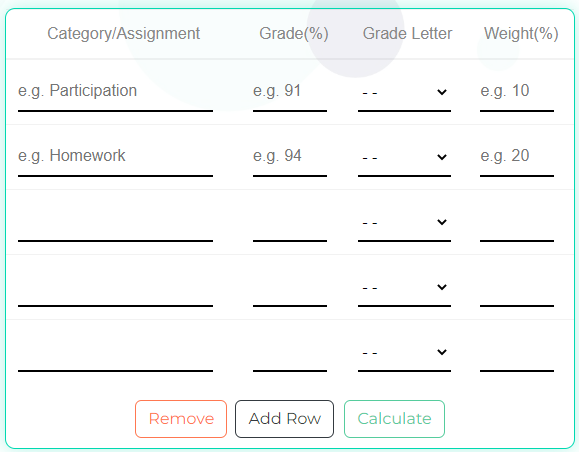
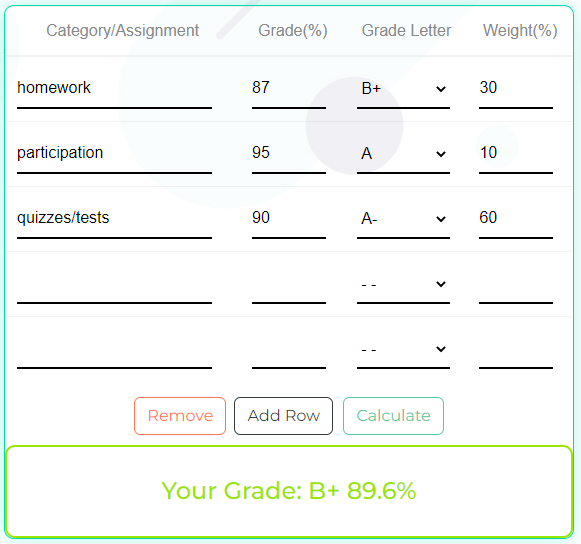
Update

diff --git a/frontend/src/components/GradeCalc.vue b/frontend/src/components/GradeCalc.vue
@@ -10,7 +10,7 @@
           <table class="table no" style="width:100%">
           <thead>
               <tr >
-                <th scope="col" class="white">Category/Assignment</th>
+                <th scope="col" width="37%" class="white">Category/Assignment</th>
                 <th scope="col">Grade(%)</th>
                 <th class="white" scope="col" >Grade Letter</th>
                 <th scope="col" >
@@ -192,10 +192,7 @@ export default {
       this.windowWidth = window.innerWidth
       const box = document.getElementById('contain')
       if (this.windowWidth <= 800) {
-        box.style.width = '100%'
-        box.style.width = '0%'
-      } else {
-        this.mobile = false
+      } else if(this.windowWidth > 800) {
       }
     },
     // fills the grade textbox after you select the corresponding letter
@@ -266,7 +263,7 @@ export default {
       } else {
         this.incorrect = false
         this.correct = true
-        this.FinalGrade = this.FinalGrade.toFixed(2)
+        this.FinalGrade = Math.round(100*this.FinalGrade)/100
       }
       if (this.FinalGrade >= 97) {
         this.FinalGradeLetter = 'A+'
@@ -335,7 +332,9 @@ export default {
   text-align: left;
 }
 img{
-  text-align: left;
+  text-align: center;
+  max-width: 100%;
+  max-height: 100%;
 }
 body{
   background-image: url("..\\assets\\5291450.jpg");
@@ -353,28 +352,6 @@ section {
     flex-direction: column;
     justify-content: center;
     color: #fff;
-    h4 {
-      text-transform: uppercase;
-      font-size: 22px;
-      padding-bottom: 4px;
-    }
-    h2 {
-      font-size: 50px;
-      @media (min-width: 550px) {
-        font-size: 80px;
-      }
-    }
-    hr:nth-child(2) {
-      max-width: 365px;
-      margin-bottom: 16px;
-    }
-    hr:nth-child(4) {
-      height: 6px;
-      background-color: #fff;
-      border: none;
-      max-width: 85px;
-      margin-top: 16px;
-    }
   }
 }
 .Heading{
@@ -387,14 +364,14 @@ section {
 .contain{
   text-align:center;
   background-color: rgba(255,255,255,0.93);
-  width: 70%;
+  max-width: 70%;
+  min-width: fit-content;
   padding: 80px;
     height: fit-content;
     border-radius: 10px;
     vertical-position: relative;
     horizontal-position: absolute;
     margin: auto;
-    align-items: center;
     box-shadow: 5px 5px 5px rgba(0,0,0,0.2);
     min-width: 550px;
 }
@@ -402,14 +379,11 @@ section {
 
     max-width: 570px;
     height: fit-content;
-    min-width: 490px;
+    min-width: 450px;
     border-radius: 10px;
     background-color: transparent;
-    vertical-position: relative;
-    horizontal-position: absolute;
     border: 1px solid rgb(0, 217, 177);
     margin: auto;
-    align-items: center;
     overflow: hide;
     box-shadow:  0 0 20px rgba(0, 217, 177,0.3);
     tr{
@@ -417,8 +391,7 @@ section {
     }
     .table {
       border: none;
-      table-layout:auto;
-      width:150px;
+      table-layout:fixed;
     }
     .btn-outline-dark{
       margin-right: 10px;
@@ -492,6 +465,7 @@ section {
   border-bottom: 2px solid black;
   height: 40px;
   max-width: 100%;
+  min-width: 100%;
   outline: 0;
   font-size: 16px;
 }
@@ -508,6 +482,6 @@ section {
   max-width: 100%;
 }
 .selectbox{
-  width: 95%;
+  width: 75%;
 }
 </style>

diff --git a/frontend/src/components/HomeView.vue b/frontend/src/components/HomeView.vue
@@ -4,6 +4,8 @@
     <div class="hero">
       <div class="container">
         <div class="mid">
+          <h1>GradeAxis</h1>
+          <hr>
           <h2>Keep Track of Your Grades with Ease.</h2>
         </div>
       </div>
@@ -26,13 +28,13 @@
   background-size: cover;
   padding-top: 270px;
   padding-bottom: 270px;
+  align-items: center;
 }
 .container {
   max-width: 960px;
   margin-left: auto;
   margin-right: auto;
-  padding-left: 1rem;
-  padding-right: 1rem;
+  align-items: center;
 }
 .mid {
   align-items: center;
